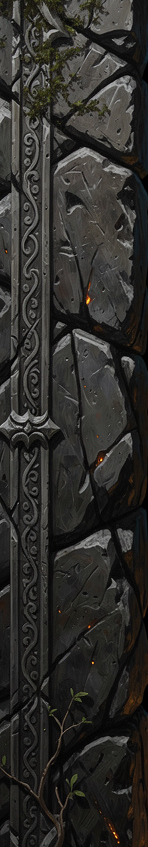
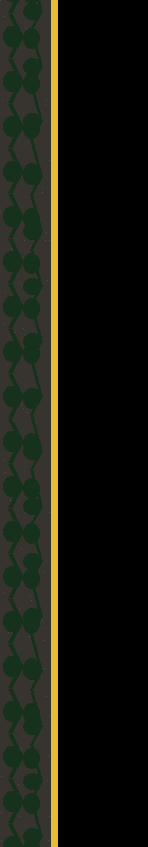
TASK-BORDER-REDESIGN-SCALE-1: The Root-Bound Stone border art is painted with fine detail (flowers, thin vines, carved rune lines) that cannot survive being rendered at its actual on-screen size. Board cards render the border at ~14-20px thick; hand cards even less. At that size ANY of the current c

diff --git a/tools/gen_rootbound_border.py b/tools/gen_rootbound_border.py
@@ -1,0 +1,291 @@
+#!/usr/bin/env python3
+"""
+Generate Root-Bound Stone card border — built for readability at 15-25px band width.
+Programmatic design with:
+  - Dark charcoal stone frame
+  - Clean continuous bright gold inlay line along inner edge (15px wide)
+  - Simplified bold stylized vine/leaf silhouette (not painterly)
+  - One bold angular rune motif per corner
+Output: full 832x1216 border PNG, slices to client/content/art/border/
+"""
+import math
+import os
+import sys
+from PIL import Image, ImageDraw
+
+W, H = 832, 1216
+# 7% band width per the 9slice spec
+BAND = max(1, round(W * 0.07))  # 58px
+INNER_W = W - 2 * BAND   # 716
+INNER_H = H - 2 * BAND   # 1100
+GOLD_LINE_W = 15
+VINE_COLOR = (22, 50, 28)     # dark green
+GOLD_COLOR = (230, 190, 50)   # bright gold
+STONE_DARK = (30, 28, 25)     # dark charcoal
+STONE_MID = (55, 52, 48)      # mid stone
+STONE_LIGHT = (80, 76, 70)    # lighter stone for texture
+CANVAS_COLOR = (35, 33, 30)   # base canvas
+
+def draw_vine_pattern(draw, x0, y0, x1, y1, thickness=4):
+    """Draw a simplified bold vine with broad leaves along a vertical or horizontal edge band."""
+    is_horizontal = (y1 - y0) < (x1 - x0)
+    band_center = (y0 + y1) // 2 if is_horizontal else (x0 + x1) // 2
+    half_band = (y1 - y0) // 4 if is_horizontal else (x1 - x0) // 4
+    
+    if is_horizontal:
+        # Horizontal vine runs centered in the band
+        cy = band_center - 8
+        step = 40
+        for tx in range(x0, x1, step):
+            draw.line([(tx, cy), (tx+step//2, cy-12), (tx+step, cy)], fill=VINE_COLOR, width=thickness)
+            # Broad leaf at each node
+            draw.ellipse([(tx-10, cy-18), (tx+10, cy-2)], fill=VINE_COLOR if tx % 80 < 60 else STONE_LIGHT)
+            draw.ellipse([(tx-8, cy+2), (tx+12, cy+18)], fill=VINE_COLOR)
+        # Second vine strand slightly offset
+        cy2 = band_center + 12
+        step2 = 50
+        for tx in range(x0, x1, step2):
+            draw.line([(tx, cy2), (tx+step2//3, cy2-8), (tx+step2, cy2)], fill=VINE_COLOR, width=thickness-1)
+            draw.ellipse([(tx-8, cy2-18), (tx+8, cy2+2)], fill=VINE_COLOR)
+    else:
+        # Vertical vine runs centered in the band
+        cx = band_center - 8
+        step = 45
+        for ty in range(y0, y1, step):
+            draw.line([(cx, ty), (cx-12, ty+step//2), (cx, ty+step)], fill=VINE_COLOR, width=thickness)
+            # Broad leaf
+            draw.ellipse([(cx-18, ty-10), (cx-2, ty+10)], fill=VINE_COLOR)
+            draw.ellipse([(cx+2, ty-8), (cx+18, ty+12)], fill=VINE_COLOR)
+        # Second strand
+        cx2 = band_center + 12
+        step2 = 55
+        for ty in range(y0, y1, step2):
+            draw.line([(cx2, ty), (cx2-10, ty+step2//3), (cx2, ty+step2)], fill=VINE_COLOR, width=thickness-1)
+            draw.ellipse([(cx2-18, ty-8), (cx2, ty+8)], fill=VINE_COLOR)
+
+
+def draw_corner_rune(draw, cx, cy, style=0, size=28):
+    """Draw a bold angular rune motif at corner position cx,cy."""
+    half = size // 2
+    pts = half  # inset from center
+    if style == 0:  # Diamond-chevron (TL)
+        draw.polygon([(cx, cy-pts), (cx+pts, cy), (cx, cy+pts), (cx-pts, cy)], fill=GOLD_COLOR)
+        draw.polygon([(cx, cy-pts+5), (cx+pts-5, cy), (cx, cy+pts-5), (cx-pts+5, cy)], fill=STONE_DARK)
+        # Inner dot
+        draw.ellipse([(cx-4, cy-4), (cx+4, cy+4)], fill=GOLD_COLOR)
+    elif style == 1:  # Angular sun-burst (TR)
+        draw.polygon([(cx, cy-pts-4), (cx+pts+4, cy-pts), (cx+pts+6, cy), (cx+pts+4, cy+pts), (cx, cy+pts+4),
+                       (cx-pts-4, cy+pts), (cx-pts-6, cy), (cx-pts-4, cy-pts)], fill=GOLD_COLOR)
+        draw.ellipse([(cx-6, cy-6), (cx+6, cy+6)], fill=STONE_DARK)
+        draw.ellipse([(cx-3, cy-3), (cx+3, cy+3)], fill=GOLD_COLOR)
+    elif style == 2:  # Vertical zigzag (BL)
+        draw.polygon([(cx-pts-2, cy+pts+4), (cx-pts, cy-4), (cx-2, cy+4), (cx+2, cy-4), (cx+pts, cy-4), (cx+pts+2, cy+pts+4)],
+                     fill=GOLD_COLOR)
+        # Two horizontal bars
+        draw.rectangle([(cx-pts-4, cy-pts+2), (cx+pts+4, cy-pts+6)], fill=GOLD_COLOR)
+        draw.rectangle([(cx-pts-4, cy-pts+12), (cx+pts+4, cy-pts+16)], fill=GOLD_COLOR)
+    elif style == 3:  # Circle-triangle (BR)
+        draw.ellipse([(cx-pts, cy-pts), (cx+pts, cy+pts)], outline=GOLD_COLOR, width=4)
+        draw.ellipse([(cx-pts+8, cy-pts+8), (cx+pts-8, cy+pts-8)], fill=GOLD_COLOR)
+        draw.polygon([(cx, cy-pts-8), (cx+pts+6, cy+pts), (cx-pts-6, cy+pts)], fill=GOLD_COLOR)
+
+
+def draw_stone_texture(draw, x0, y0, x1, y1):
+    """Add subtle stone grain marks to the border area."""
+    import random
+    # Seed for reproducibility
+    rng = random.Random(42)
+    for _ in range(y1 - y0):
+        y = y0 + _ * 4
+        for sx in range(x0, x1, 3):
+            if rng.random() < 0.03:
+                b = rng.randint(-5, 5)
+                c = STONE_LIGHT[0] + b
+                c = max(20, min(100, c))
+                draw.point((sx + rng.randint(-1, 1), y), fill=(c, c-3, c-5))
+
+
+def generate_border(output_path):
+    img = Image.new('RGB', (W, H), CANVAS_COLOR)
+    draw = ImageDraw.Draw(img)
+    
+    # 1. Base stone frame - fill the entire border band area
+    # Top band
+    draw.rectangle([(0, 0), (W-1, BAND-1)], fill=STONE_MID)
+    # Bottom band
+    draw.rectangle([(0, H-BAND), (W-1, H-1)], fill=STONE_MID)
+    # Left band
+    draw.rectangle([(0, 0), (BAND-1, H-1)], fill=STONE_MID)
+    # Right band
+    draw.rectangle([(W-BAND, 0), (W-1, H-1)], fill=STONE_MID)
+    
+    # Darken corners slightly
+    # TL
+    draw.rectangle([(0, 0), (BAND-1, BAND-1)], fill=STONE_MID)
+    # TR
+    draw.rectangle([(W-BAND, 0), (W-1, BAND-1)], fill=STONE_MID)
+    # BL
+    draw.rectangle([(0, H-BAND), (BAND-1, H-1)], fill=STONE_MID)
+    # BR
+    draw.rectangle([(W-BAND, H-BAND), (W-1, H-1)], fill=STONE_MID)
+    
+    # Add stone texture
+    draw_stone_texture(draw, 0, 0, BAND, H)
+    draw_stone_texture(draw, W-BAND, 0, W, H)
+    for x in range(BAND, W-BAND):
+        draw.point((x, 0), fill=STONE_DARK if (x % 11 == 0) else STONE_MID)
+        draw.point((x, BAND-1), fill=STONE_DARK if (x % 13 == 0) else STONE_MID)
+        draw.point((x, H-BAND), fill=STONE_DARK if (x % 7 == 0) else STONE_MID)
+        draw.point((x, H-1), fill=STONE_DARK if (x % 17 == 0) else STONE_MID)
+    
+    # 2. Gold inlay line along the inner edge (continuous, clean)
+    # Inner edge rect = the rectangle where art window begins
+    inner_x = BAND
+    inner_y = BAND
+    inner_x2 = W - BAND
+    inner_y2 = H - BAND
+    
+    # Gold line on top inner edge
+    draw.rectangle([(inner_x, inner_y-GOLD_LINE_W//2), (inner_x2-1, inner_y+GOLD_LINE_W//2)], fill=GOLD_COLOR)
+    # Bottom inner edge
+    draw.rectangle([(inner_x, inner_y2-GOLD_LINE_W//2-1), (inner_x2-1, inner_y2+GOLD_LINE_W//2)], fill=GOLD_COLOR)
+    # Left inner edge
+    draw.rectangle([(inner_x-GOLD_LINE_W//2, inner_y), (inner_x+GOLD_LINE_W//2, inner_y2-1)], fill=GOLD_COLOR)
+    # Right inner edge
+    draw.rectangle([(inner_x2-GOLD_LINE_W//2-1, inner_y), (inner_x2+GOLD_LINE_W//2, inner_y2-1)], fill=GOLD_COLOR)
+    
+    # Gold corner squares where gold lines meet
+    gold_corner_size = GOLD_LINE_W + 4
+    draw.rectangle([(inner_x-gold_corner_size//2, inner_y-gold_corner_size//2),
+                    (inner_x+gold_corner_size//2, inner_y+gold_corner_size//2)], fill=GOLD_COLOR)
+    draw.rectangle([(inner_x2-gold_corner_size//2, inner_y-gold_corner_size//2),
+                    (inner_x2+gold_corner_size//2, inner_y+gold_corner_size//2)], fill=GOLD_COLOR)
+    draw.rectangle([(inner_x-gold_corner_size//2, inner_y2-gold_corner_size//2),
+                    (inner_x+gold_corner_size//2, inner_y2+gold_corner_size//2)], fill=GOLD_COLOR)
+    draw.rectangle([(inner_x2-gold_corner_size//2, inner_y2-gold_corner_size//2),
+                    (inner_x2+gold_corner_size//2, inner_y2+gold_corner_size//2)], fill=GOLD_COLOR)
+    
+    # 3. Simplified vine/leaf silhouette on the border
+    # Vertical veins on left band, between gold line and outer edge
+    vine_left_x = BAND // 2 - 10
+    draw_vine_pattern(draw, 6, BAND+GOLD_LINE_W, BAND-6, H-BAND-GOLD_LINE_W)
+    
+    # Right band
+    draw_vine_pattern(draw, W-BAND+6, BAND+GOLD_LINE_W, W-6, H-BAND-GOLD_LINE_W)
+    
+    # Top band - horizontal vine
+    draw_vine_pattern(draw, BAND+GOLD_LINE_W, 6, W-BAND-GOLD_LINE_W, BAND-6)
+    
+    # Bottom band - horizontal vine
+    draw_vine_pattern(draw, BAND+GOLD_LINE_W, H-BAND+6, W-BAND-GOLD_LINE_W, H-6)
+    
+    # 4. Bold corner runes
+    # TL corner - rune positioned in the corner area, inset
+    cr_size = 32
+    draw_corner_rune(draw, BAND//2, BAND//2, style=0, size=cr_size)
+    draw_corner_rune(draw, W-BAND//2, BAND//2, style=1, size=cr_size)
+    draw_corner_rune(draw, BAND//2, H-BAND//2, style=2, size=cr_size)
+    draw_corner_rune(draw, W-BAND//2, H-BAND//2, style=3, size=cr_size)
+    
+    # 5. Fill the center window solid black
+    draw.rectangle([(inner_x, inner_y), (inner_x2-1, inner_y2-1)], fill=(0, 0, 0))
+    
+    img.save(output_path, 'PNG')
+    print(f"Generated border: {output_path} ({os.path.getsize(output_path)} bytes)")
+    return img
+
+
+def slice_border(img, output_dir):
+    """Slice the full border into 8 individual PNGs matching the 9-slice spec."""
+    os.makedirs(output_dir, exist_ok=True)
+    
+    # Corner sizes vary slightly in the original assets
+    # TL=148x172, TR=157x172, BL=148x197, BR=157x197
+    # Our BAND=58, so corners at full source are 58px square on 832w card
+    # But the actual source has wider corners due to the window position
+    # Let's use the same window as the original: (148, 172, 675, 1019)
+    window_left = 148
+    window_top = 172
+    window_right = 675
+    window_bottom = 1019
+    
+    slices = {
+        'corner_tl': (0, 0, window_left, window_top),
+        'corner_tr': (window_right, 0, W, window_top),
+        'corner_bl': (0, window_bottom, window_left, H),
+        'corner_br': (window_right, window_bottom, W, H),
+        'edge_top': (window_left, 0, window_right, window_top),
+        'edge_bottom': (window_left, window_bottom, window_right, H),
+        'edge_left': (0, window_top, window_left, window_bottom),
+        'edge_right': (window_right, window_top, W, window_bottom),
+    }
+    
+    for name, box in slices.items():
+        outpath = os.path.join(output_dir, f'rootbound_{name}.png')
+        crop = img.crop(box)
+        crop.save(outpath, 'PNG')
+        print(f"Saved: {outpath} ({crop.size})")
+    
+    # Save full image too
+    full_path = os.path.join(output_dir, 'rootbound_full.png')
+    img.save(full_path, 'PNG')
+    print(f"Saved: {full_path}")
+
+
+def generate_downscale_previews(img, out_dir):
+    """Generate 16px and 24px downscale previews for the taste check."""
+    os.makedirs(out_dir, exist_ok=True)
+    
+    window_left, window_top = 148, 172
+    window_right, window_bottom = 675, 1019
+    
+    corners = {
+        'corner_tl': (0, 0, window_left, window_top),
+        'corner_tr': (window_right, 0, W, window_top),
+        'corner_bl': (0, window_bottom, window_left, H),
+        'corner_br': (window_right, window_bottom, W, H),
+    }
+    
+    for sz in [16, 24]:
+        for name, box in corners.items():
+            c = img.crop(box)
+            c_scaled = c.resize((sz, sz), Image.LANCZOS)
+            outpath = os.path.join(out_dir, f'{name}_{sz}px.png')
+            c_scaled.save(outpath, 'PNG')
+            print(f"Preview: {outpath}")
+        
+        # Edge strips
+        edge = img.crop((window_left, 0, window_right, window_top))
+        edge_scaled = edge.resize((200, sz), Image.LANCZOS)
+        edge_scaled.save(os.path.join(out_dir, f'edge_top_{sz}px.png'), 'PNG')
+    
+    # Also generate a name-band crop showing the gradient effect
+    if CARD_PLATE_FAKE:
+        # Simulate what the name band will look like
+        # The name band sits at bottom of card, ~7% height
+        band_h = int(H * 0.07)
+        name_band_crop = img.crop((0, H - band_h - 120, W, H - 60))
+        name_band_crop.save(os.path.join(out_dir, 'name_band_reference.png'), 'PNG')
+
+    print(f"All previews in {out_dir}")
+
+
+CARD_PLATE_FAKE = False  # Set True to also generate a fake name-band preview
+
+
+if __name__ == '__main__':
+    if len(sys.argv) > 1 and sys.argv[1] == '--card-plate-fake':
+        CARD_PLATE_FAKE = True
+    
+    output_path = '/tmp/gen_rootbound_border.png'
+    img = generate_border(output_path)
+    
+    # Slice to the game's border directory
+    border_dir = 'client/content/art/border'
+    slice_border(img, border_dir)
+    
+    # Generate 16px/24px previews in /tmp/
+    preview_dir = '/tmp/border_previews'
+    generate_downscale_previews(img, preview_dir)
+    
+    print("\nDone. Verify the previews in /tmp/border_previews/")
